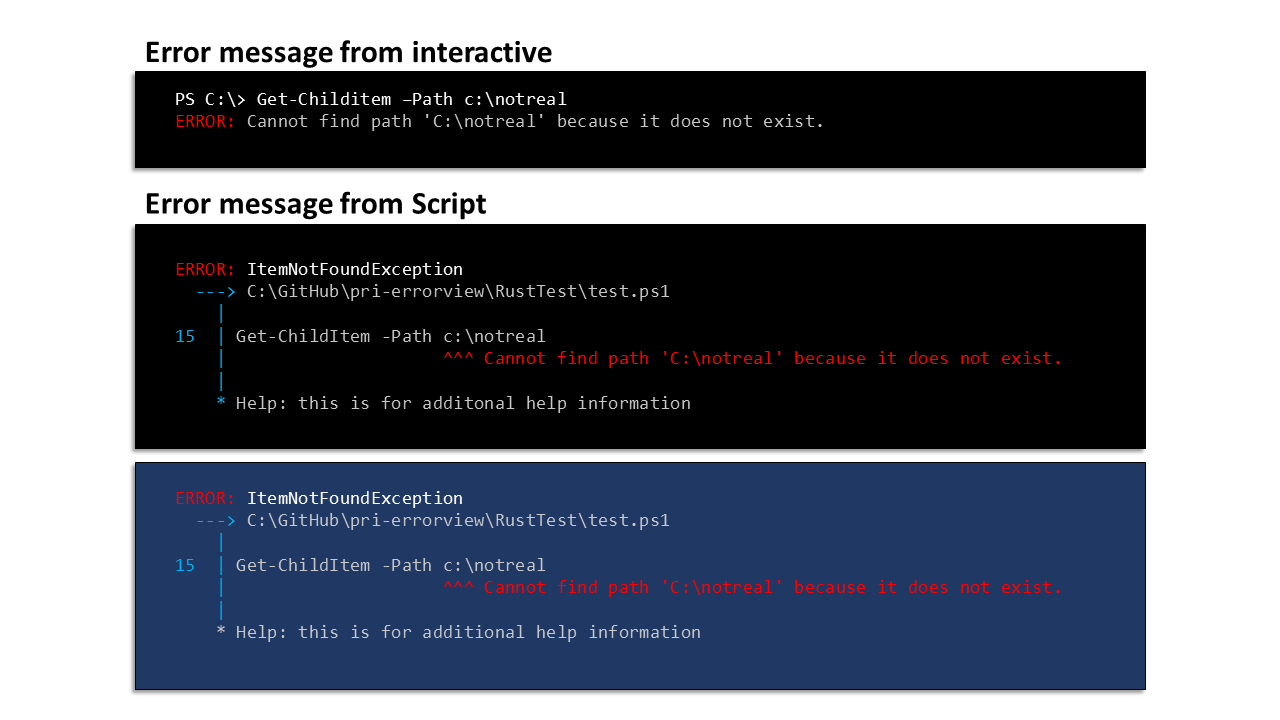
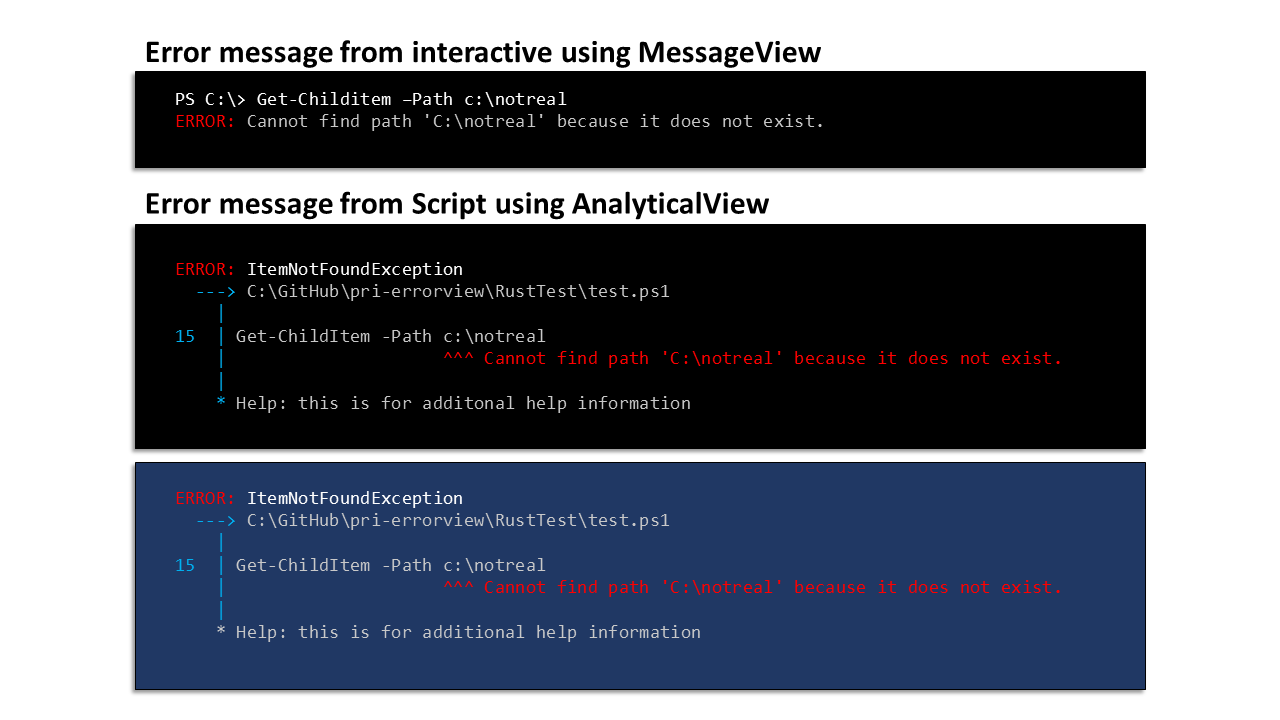
update $errorview to enum

Changed region(s): [[0.375, 0.275, 0.625, 0.3056], [0.4375, 0.0611, 0.6562, 0.0917]]

diff --git a/1-Draft/RFC00XX-Update-Error-View.md b/1-Draft/RFC00XX-Update-Error-View.md
@@ -1,66 +1,66 @@
 ---
-RFC: Update $ErrorView with Single String Error Messages
+RFC: Update $ErrorView with simplified views for Error Messages
 Author: Jason Helmick
 Status: Draft
 Version: 0.0.0
 Area: PowerShell
-Comments Due:
+Comments Due: 10/31/2019
 ---
 
-# Update $ErrorView with Single String Error Messages
+# Update $ErrorView with simplified views for Error Messages
 
 When an error occurs in PowerShell, the customers on-screen error message experience currently
 provides a level of detail that obscures the exception message from being recognized and read by
-new or occasional PowerShell users. The addition of simplified error views will improve both
-comprehension and troubleshooting experience.
-
-Advanced PowerShell users and scripters will benefit from a newly designed 'AnalyticalView' that
-focuses on the specific location, code reference and error information from the script.
-
-Both user types will benefit from a combined 'DynamicView' that switches between
-'MessageView' and 'AnalyticalView' based on the source of execution;
-Command-line versus script.
-
-In all the above scenarios, regardless of error view selected, A comprehensive
-detailed view of the fully qualified error, including inner exceptions,
-will be provided by the `Resolve-ErrorRecord` cmdlet.
+new or occasional PowerShell users. The addition of a simplified error view will improve both
+comprehension and troubleshooting experience. A new cmdlet 'Resolve-ErrorRecord' will provide
+complete detailed view of the fully qualified error when desired.
 
 ## Motivation
 
 The on-screen experience, when receiving an error message,
 is controlled through the views NormalView (the default) and CategoryView. These are user selectable
 through the preference variable $ErrorView.
-This RFC describes adding three additional views to improve readability. The
-'MessageView', 'AnalyticalView', and 'DynamicView'.
+This RFC describes Changing '$ErrorView to an enumeration and adding three additional views
+to improve readability,'Message', 'Analytic', and 'Dynamic'.
+
+- Message - provides a concise error message suitable for new or occasional PowerShell users.
+- Analytic - provides a refactored form of NormalView
+- Dynamic - provides conditional switching between Message and Analytic.
+
 A comprehensive detailed view of the fully qualified error, including inner exceptions,
 will be provided by the `Resolve-ErrorRecord` cmdlet.
 
+'$ErrorView' shall contain the original views for backward compatibility and renamed
+to remove 'view' from the name. The view list is as follows:
+
+- Normal
+- Category
+- Message
+- Analytic
+- Dynamic
+
 ## Specification
 
-The proposal is to add three new views to a simplified conditional error message
-based on interactive versus script use.
-For in-depth troubleshooting, a new cmdlet `Resolve-ErrorRecord` to provide detailed error information.
+The proposal is to add three new views to help improve error message comprehension based on user
+needs. For in-depth troubleshooting, a new cmdlet `Resolve-ErrorRecord`
+to provide detailed error information.
 
 __Key Design Considerations__
 
-1. To reduce confusion and improve debugging success,
-error messages should call WriteErrorLine to produce a simplified message, including the word “ERROR:”
-to make consistent with Verbose and Warning messages. This is a change to the existing NormalView.
+1. To reduce confusion and improve debugging success for new and occasional users,
+error messages should call WriteErrorLine to produce a simplified message using view 'Message'
+and include the preface word “ERROR:”
 
-- $ErrorView can refer to these views
-
-    + NormalView
-    + CategoryView
-    + MessageView
-    + AnalyticalView
-    + DynamicView
-
-- Simplified error message syntax from Interactive and script. (See graphic below)
+- Simplified error message syntax from 'Message'. (See graphic below)
 
 ```powershell
 PS C:\> Get-Childitem -Path c:\notreal
 ERROR: Cannot find path ‘C:\notreal’ because it does not exist
 ```
+
+2. To improve script debugging for advanced PowerShell users and scripters,
+a refactored error view 'Analytic' will be added displaying the error category,
+exception, code line and position, and include additional help for the user.
 
 ```powershell
 PS C:\> .\MyScript.ps1
@@ -70,17 +70,20 @@ ERROR: ItemNotFoundException
 15  | Get-ChildItem -Path c:\notreal
     |                     ^^^ Cannot find path 'C:\notreal' because it does not exist.
     |
-    * Help: this is for additional help information
-
-PS C:\> $error[0] | Resolve-ErrorRecord
-
-**** Detailed message here ****
+    * Help: Additional help information provided here
 ```
 
-![test](.\RFC00XX-Update-Error-View.png)
+3. The 'Dynamic' view is a combination of the views 'message' and 'Analytic' for users working
+in the console that also run scripts. When the user is working Interactively in the CLI,
+they will receive errors in the view of 'Message'.  When the user executes a script,
+errors will use the view 'Analytic'.
 
-2. A new cmdlet `Resolve-ErrorRecord` will produce comprehensive detailed
-view of the fully qualified error, including inner exceptions.
+- An example is in the image below:
+
+![Message and Analytic](.\RFC00XX-Update-Error-View.png)
+
+4. A new cmdlet `Resolve-ErrorRecord` will produce comprehensive detailed
+view of the fully qualified error, including nested inner exceptions.
 
 - Resolve-ErrorRecord will provide the following:
 
@@ -99,7 +102,7 @@ First parameter set
 - Newest
 
     + Datatype: int32
-    + specifies one or more of last errors to display
+    + specifies one or more of the newest errors to display
     + Not required
 
 __Example 1__
@@ -115,7 +118,8 @@ PS C:\test> Resolve-ErrorRecord
 ```
 
 __Example 2__
-Error occurs in Script. Cmdlet displays error details from pipeline error object
+Error occurs in script, shows error from view 'Analytic', and then is piped
+from $error array to 'Resolve-ErrorRecord' to display more details.
 
 ```powershell
 PS C:\> .\MyScript.ps1
